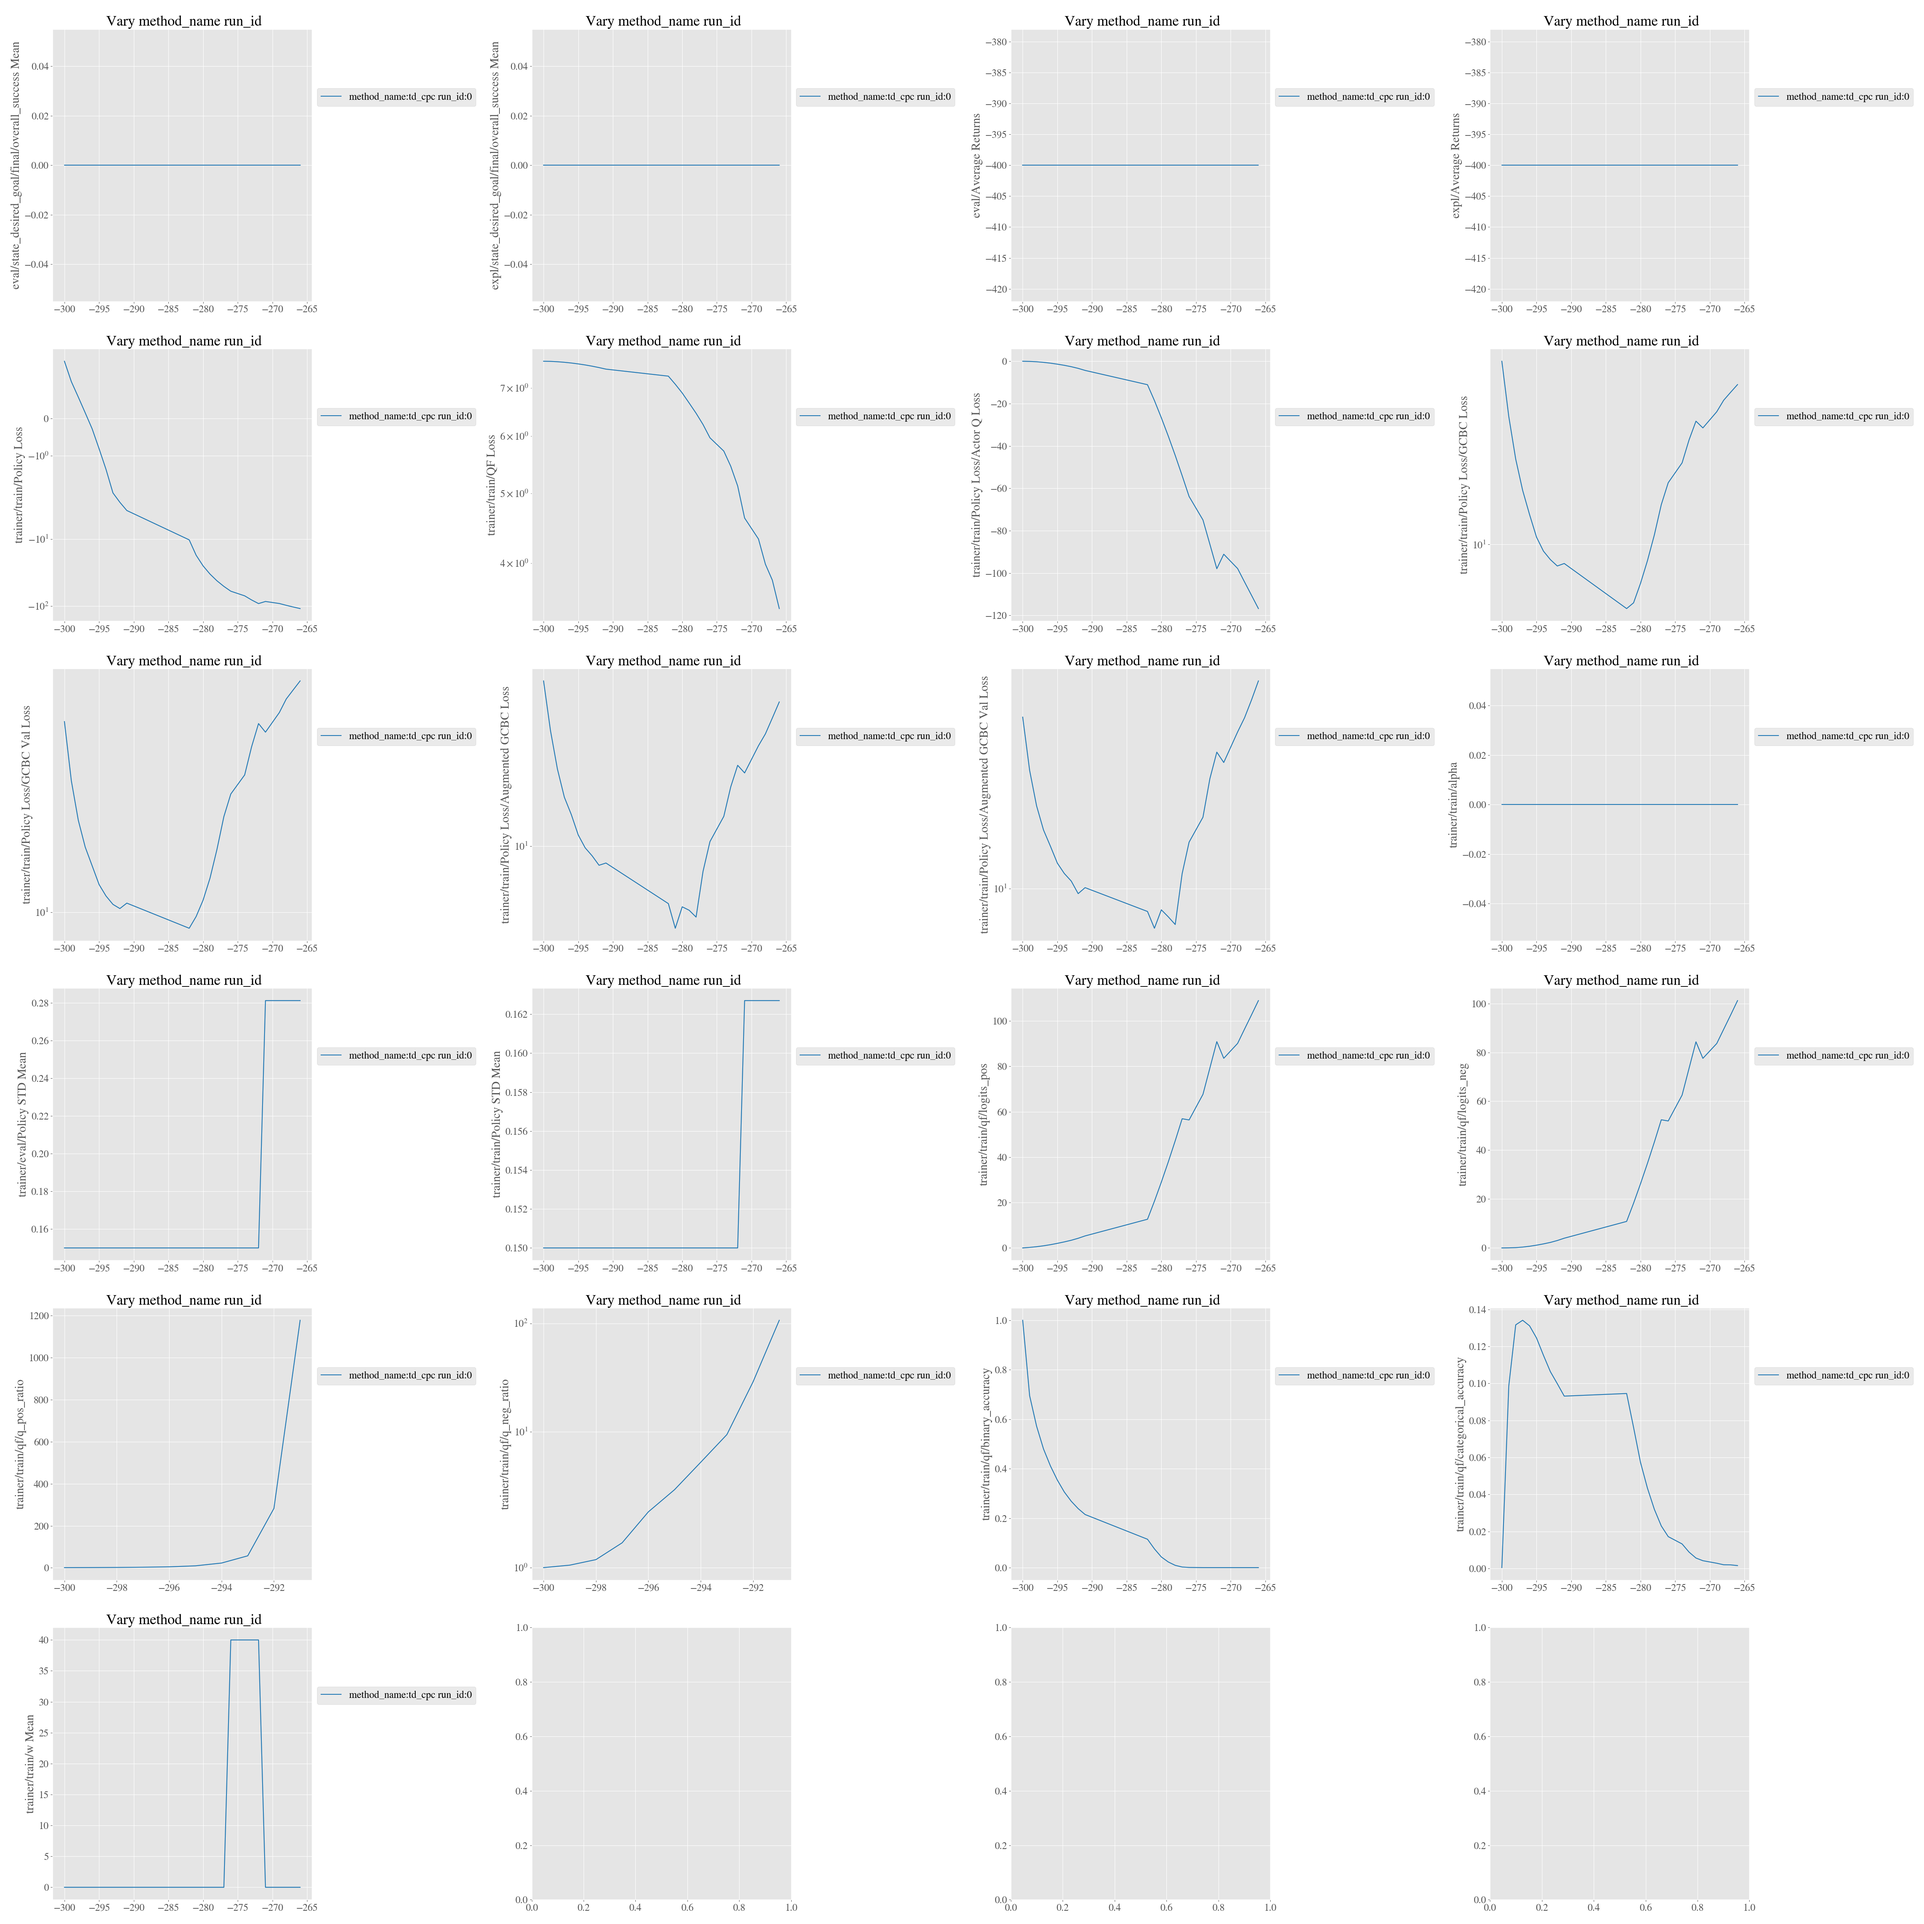
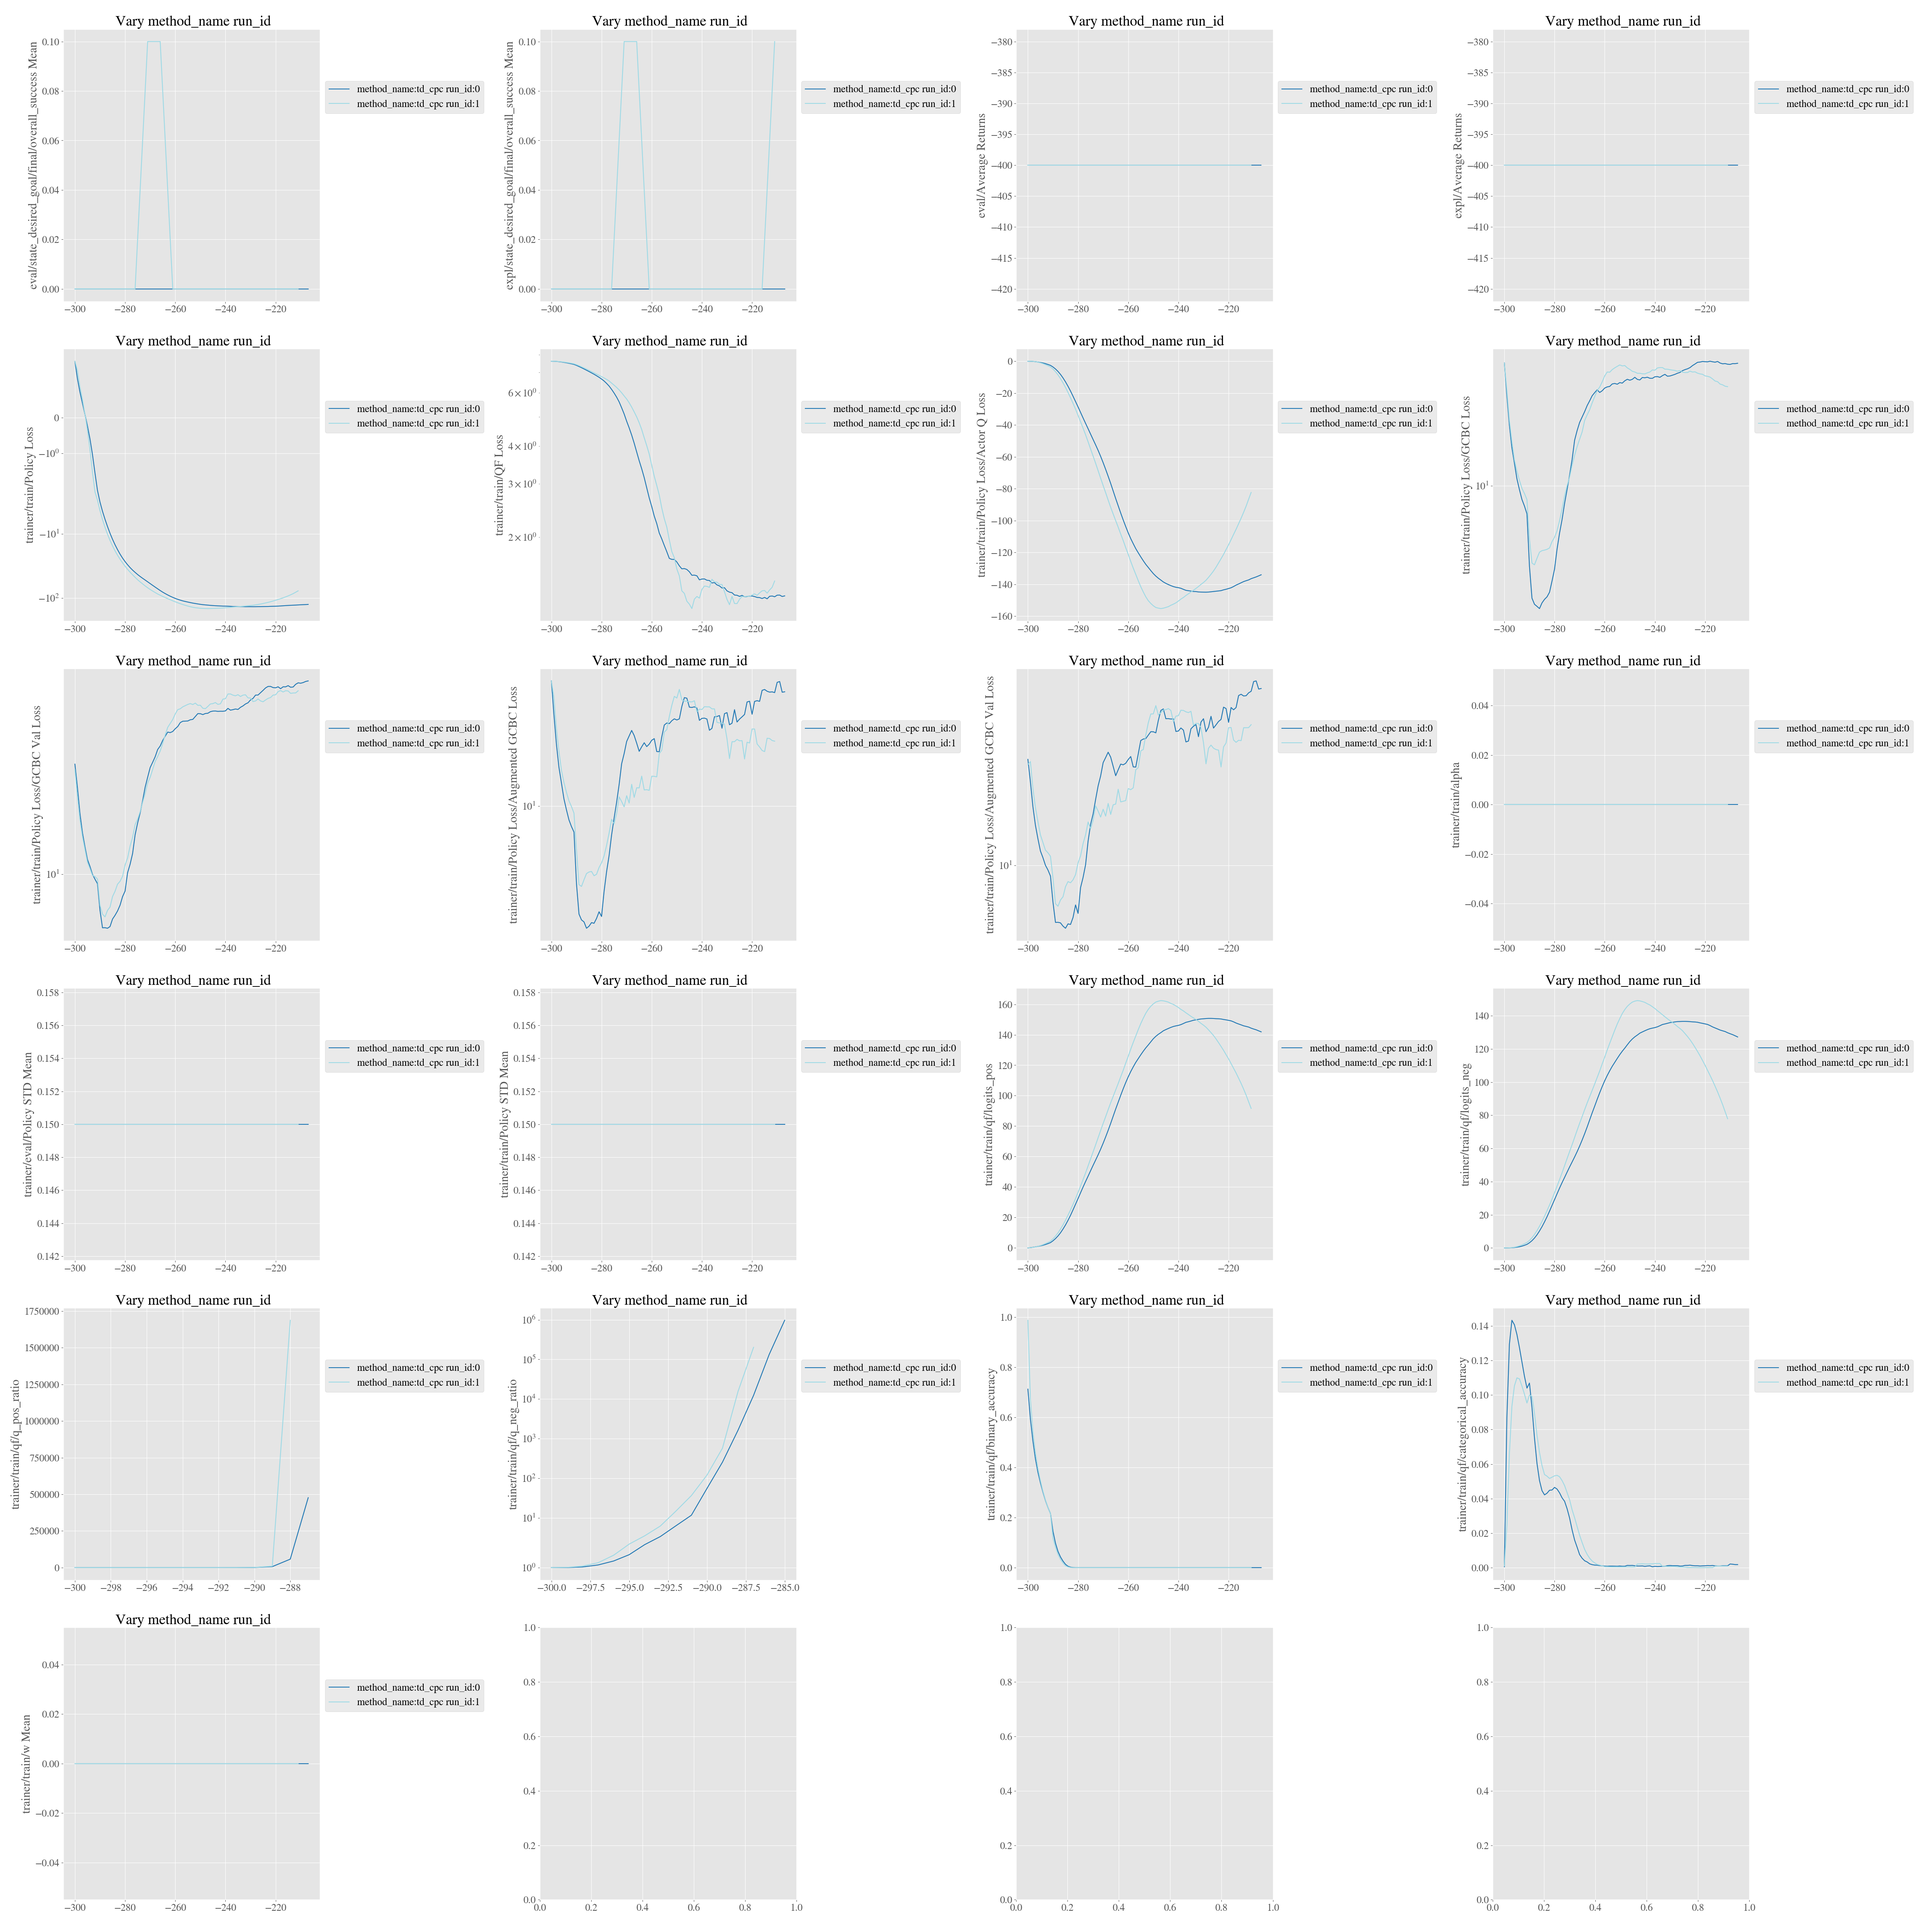
add gaussian two channel policy and eval_seed=49 exps

diff --git a/rlkit/networks/gaussian_policy.py b/rlkit/networks/gaussian_policy.py
@@ -9,10 +9,75 @@ from rlkit.torch.sac.policies.gaussian_policy import (
     LOG_SIG_MIN,
 )
 from rlkit.torch.distributions import MultivariateDiagonalNormal
-from rlkit.torch.networks import CNN
+from rlkit.torch.networks import CNN, TwoChannelCNN
 
 
 class GaussianCNNPolicy(CNN, TorchStochasticPolicy):
+    def __init__(
+            self,
+            hidden_sizes,
+            obs_dim,
+            action_dim,
+            std=None,
+            init_w=1e-3,
+            min_log_std=None,
+            max_log_std=None,
+            std_architecture="shared",
+            output_activation=None,
+            **kwargs
+    ):
+        super().__init__(
+            hidden_sizes=hidden_sizes,
+            output_size=action_dim,
+            init_w=init_w,
+            output_activation=output_activation,
+            **kwargs
+        )
+        self.min_log_std = min_log_std
+        self.max_log_std = max_log_std
+        self.log_std = None
+        self.std = std
+        self.std_architecture = std_architecture
+        if std is None:
+            if self.std_architecture == "shared":
+                last_hidden_size = obs_dim
+                if len(hidden_sizes) > 0:
+                    last_hidden_size = hidden_sizes[-1]
+                self.last_fc_log_std = nn.Linear(last_hidden_size, action_dim)
+                self.last_fc_log_std.weight.data.uniform_(-init_w, init_w)
+                self.last_fc_log_std.bias.data.uniform_(-init_w, init_w)
+            elif self.std_architecture == "values":
+                self.log_std_logits = nn.Parameter(
+                    ptu.zeros(action_dim, requires_grad=True))
+            else:
+                raise ValueError(self.std_architecture)
+        else:
+            self.log_std = np.log(std)
+            assert LOG_SIG_MIN <= self.log_std <= LOG_SIG_MAX
+
+    def forward(self, obs):
+        h = super().forward(obs, return_last_activations=True)
+        mean = self.last_fc(h)
+        if self.output_activation is not None:
+            mean = self.output_activation(mean)
+        if self.std is None:
+            if self.std_architecture == "shared":
+                log_std = torch.sigmoid(self.last_fc_log_std(h))
+            elif self.std_architecture == "values":
+                log_std = torch.sigmoid(self.log_std_logits)
+            else:
+                raise ValueError(self.std_architecture)
+            log_std = self.min_log_std + log_std * (
+                self.max_log_std - self.min_log_std)
+            std = torch.exp(log_std)
+        else:
+            std = torch.from_numpy(np.array([self.std, ])).float().to(
+                ptu.device)
+
+        return MultivariateDiagonalNormal(mean, std)
+
+
+class GaussianTwoChannelCNNPolicy(TwoChannelCNN, TorchStochasticPolicy):
     def __init__(
             self,
             hidden_sizes,

diff --git a/rlkit/learning/stable_contrastive_rl.py b/rlkit/learning/stable_contrastive_rl.py
@@ -35,7 +35,10 @@ from rlkit.utils.logging import logger as logging
 from rlkit.learning.contextual_replay_buffer import ContextualRelabelingReplayBuffer
 from rlkit.learning.online_offline_split_replay_buffer import OnlineOfflineSplitReplayBuffer
 from rlkit.networks.contrastive_networks import ContrastiveQf
-from rlkit.networks.gaussian_policy import GaussianCNNPolicy
+from rlkit.networks.gaussian_policy import (
+    GaussianCNNPolicy,
+    GaussianTwoChannelCNNPolicy
+)
 
 
 state_obs_key = 'state_observation'
@@ -308,6 +311,17 @@ def stable_contrastive_rl_experiment(
                 policy_kwargs['input_width'] = imsize
                 policy_kwargs['input_height'] = imsize
                 policy_kwargs['input_channels'] = 6
+                policy_kwargs['kernel_sizes'] = [8, 4, 3]
+                policy_kwargs['n_channels'] = [32, 64, 64]
+                policy_kwargs['strides'] = [4, 2, 1]
+                policy_kwargs['paddings'] = [2, 1, 1]
+                policy_kwargs['conv_normalization_type'] = 'layer' if policy_layer_norm else 'none'
+                policy_kwargs['fc_normalization_type'] = 'layer' if policy_layer_norm else 'none'
+            elif policy_class == GaussianTwoChannelCNNPolicy:
+                assert policy_kwargs['output_activation'] is None
+                policy_kwargs['input_width'] = imsize
+                policy_kwargs['input_height'] = imsize
+                policy_kwargs['input_channels'] = 3
                 policy_kwargs['kernel_sizes'] = [8, 4, 3]
                 policy_kwargs['n_channels'] = [32, 64, 64]
                 policy_kwargs['strides'] = [4, 2, 1]

diff --git a/experiments/train_eval_stable_contrastive_rl.py b/experiments/train_eval_stable_contrastive_rl.py
@@ -8,7 +8,10 @@ from roboverse.envs.sawyer_rig_affordances_v6 import SawyerRigAffordancesV6
 
 import rlkit.util.hyperparameter as hyp
 from rlkit.launchers.arglauncher import run_variants
-from rlkit.networks.gaussian_policy import GaussianCNNPolicy
+from rlkit.networks.gaussian_policy import (
+    GaussianCNNPolicy,
+    GaussianTwoChannelCNNPolicy
+)
 
 from rlkit.envs.drawer_pnp_push_commands import drawer_pnp_push_commands
 from rlkit.learning.stable_contrastive_rl import stable_contrastive_rl_experiment
@@ -55,7 +58,7 @@ def get_default_variant(demo_paths):
         env_kwargs=dict(
             test_env=True,
         ),
-        policy_class=GaussianCNNPolicy,
+        policy_class=GaussianTwoChannelCNNPolicy,
         policy_kwargs=dict(
             hidden_sizes=[1024, 1024, 1024, 1024],
             std=0.15,

diff --git a/scripts/rlkit_plot.py b/scripts/rlkit_plot.py
@@ -163,7 +163,7 @@ if __name__ == "__main__":
     ])
     parser.add_argument('--vary', type=str, nargs='+', default=[
         'method_name',
-        # 'run_id',
+        'run_id',
     ])
     parser.add_argument('--plot_seeds', type=str2bool, default=True)
     parser.add_argument('--plot_error_bars', type=str2bool, default=False)
